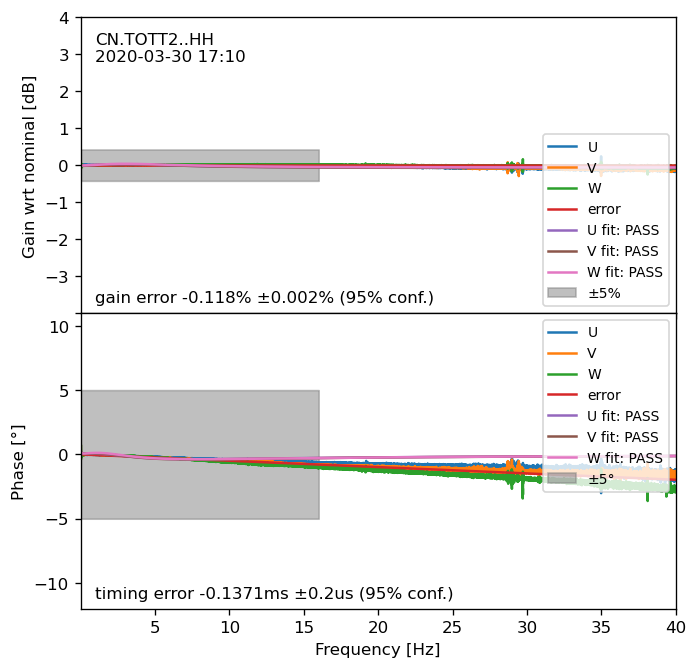
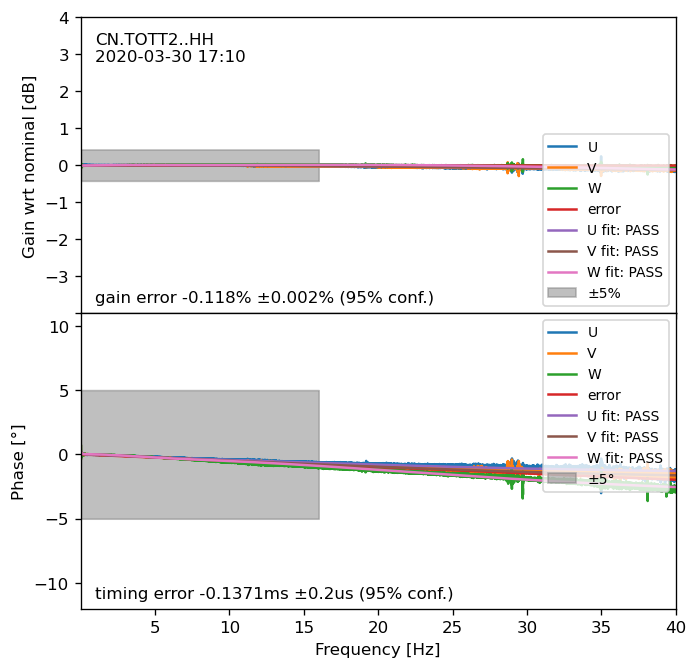
Changed --fit argument from bool to number of stages to fit. Added out-of-band argument. Log arguments used.

diff --git a/src/calan/calibration_analyzer.py b/src/calan/calibration_analyzer.py
@@ -64,7 +64,7 @@ from calan.core import (
     PACKAGE, VERSION, factor_names, subplots_squeeze,
     gain_db, phase_deg, unwrap_mid, recompute_normalization_factors,
     extract_decimation_coefficients, multi_decim,
-    lti_multiply, lti_divide, zpk_cascade, stage2zpk, units)
+    lti_multiply, lti_divide, zpk_cascade, units)
 from calan.utilities import (
     logspace, pretty_duration, round_sig, str_sig, MyArgumentParser, MyFormatter)
 from calan.stft import Stft, len_fft_welch, num_windows_welch
@@ -99,6 +99,8 @@ DEFAULT_PRE_TIME = 10
 DEFAULT_POST_TIME = 10
 DEFAULT_DELAY_START = 0
 DEFAULT_DISCARD = (0, 0)
+DEFAULT_FIT_STAGES = 0
+DEFAULT_OUT_OF_BAND_RANGE = (2, 5)
 
 # constants
 THIS_FILE_NAME = os.path.basename(__file__)
@@ -186,7 +188,7 @@ def _argparser() -> MyArgumentParser:
         help='glob pattern matching calibration output files, '
         'in any format readable by obspy.read()')
     parser.add_argument(
-        '-n', '--num-windows', default=DEFAULT_NUM_WINDOWS, type=int,
+        '--num-windows', default=DEFAULT_NUM_WINDOWS, type=int,
         help="number of windows to used for Welch's method")
     parser.add_argument(
         '--len-fft', default=None, type=int,
@@ -230,8 +232,13 @@ def _argparser() -> MyArgumentParser:
         '--ims-instrument-type', default='',
         help='if provided, write IMS2.0 CALIBRATE_RESULT message with this type')
     parser.add_argument(
-        '--fit', action='store_true',
-        help='fit transfer function poles and zeros')
+        '--fit', type=int, metavar=('N'), default=DEFAULT_FIT_STAGES,
+        help='fit the first N stages of the sensor response poles and zeros')
+    parser.add_argument(
+        '--out-of-band', nargs=2, type=float, metavar=('FACTOR_1', 'FACTOR_2'),
+        default=DEFAULT_OUT_OF_BAND_RANGE,
+        help='fix poles and zeroes more than this factor beyond available '
+        'frequency range')
     parser.add_argument(
         '-p', '--plot', default='none', choices=get_args(PlotChoices),
         help='generate basic (start & end check, transfer function and '
@@ -310,7 +317,8 @@ def calibration_analyzer(
     test_limits: Tuple[float, float] = (MAX_AMPLITUDE_PERCENT, MAX_PHASE_DEGREES),
     orientation_map: Tuple[str, str] = DEFAULT_ORIENTATION_MAP,
     plot: str = '',
-    fit: bool = False,
+    fit: int = DEFAULT_FIT_STAGES,
+    out_of_band: Tuple[float, float] = DEFAULT_OUT_OF_BAND_RANGE,
     dpi: float = DEFAULT_DPI,
 ) -> str:
     """Do arbitrary-signal calibration analysis."""
@@ -349,7 +357,7 @@ def calibration_analyzer(
         analyzer.load_calibration_signal(calibration_signal_file)
         analyzer.load_calibration_response(calibration_response_file)
         analyzer.check_stream(discard_s=discard_s)
-        analyzer.setup_nominal_responses()
+        analyzer.setup_nominal_responses(n=min(fit, 1))
         analyzer.map_orientations(orientation_map)
 
         plot_level = PLOT_LEVEL[plot]
@@ -360,7 +368,7 @@ def calibration_analyzer(
         analyzer.compute(num_windows=num_windows, len_fft=len_fft or None,
                          window=window)
         if fit:
-            analyzer.fit()
+            analyzer.fit(out_of_band=out_of_band)
         analyzer.test(test_band_hz=test_band_hz,
                       max_amplitude_percent=test_limits[0],
                       max_phase_degrees=test_limits[1])
@@ -935,20 +943,20 @@ class CalibrationAnalyzer():
         self.info.calibration_response_file = response_file
         self.logger.debug(str(self.get_stream('input')[0].stats.response))
 
-    def setup_nominal_responses(self: CalibrationAnalyzer) -> None:
+    def setup_nominal_responses(self: CalibrationAnalyzer, n: int = 1) -> None:
         """
         Set up nominal sensor, cal & system (linear time-invariant) responses.
 
-        system = calibration [m/s^2/V] * sensor [V/(m/s^n)] * integrator(2 - n)
+        system = calibration [m/s^2/V] * sensor [V/(m/s^k)] * integrator(2 - k)
 
         Note
-          1. The 'sensor' is the first stage in the 'output' response.
+          1. The 'sensor' is the n first stages in the 'output' response.
           2. The 'cal' response is recorded in the station metadata as the
             conversion from ground motion to voltage, so to convert voltage to
             ground motion it is inverted.
         """
         sensor_stages = self.split_stages(self.get_stream('output')[0])[0]
-        self.lti.sensor = stage2zpk(sensor_stages[0])
+        self.lti.sensor = zpk_cascade(sensor_stages[0:n])
         self.logger.debug('Sensor: %s', str(self.lti.sensor))
 
         cal_stages = self.split_stages(self.get_stream('input')[0])[0]
@@ -968,7 +976,7 @@ class CalibrationAnalyzer():
                 f'from {cal_units} to {sensor_units} not supported.')
 
         self.lti.cal = lti_divide(
-            lti_multiply(integrator, zpk_cascade(sensor_stages[1:])),
+            lti_multiply(integrator, zpk_cascade(sensor_stages[n:])),
             zpk_cascade(cal_stages))
         self.logger.debug('Cal: %s', self.lti.cal)
 
@@ -984,38 +992,18 @@ class CalibrationAnalyzer():
 
     def tf_nominal(
         self: CalibrationAnalyzer,
-        model: str,
+        model: Literal['sensor', 'cal', 'system'],
         f: Optional[ArrayLike] = None,
     ) -> np.ndarray:
         """
         Return nominal transfer function evaluated at frequencies.
-
-        Arguments:
-        - `model`: typically 'sensor', 'cal' or 'system'
-        - `f`: frequencies in Hz, defaults to those of self.stft
-
-        Returns:
-        - `tf`: nominal transfer function at given frequencies.
         """
-        if model not in vars(self.lti):
-            raise ValueError(
-                f"Model '{model}' not among supported: "
-                ', '.join(vars(self.lti)))
         if f is None:
             f = self.stft.f
         else:
             f = np.array(f)
 
-        omegas = 2*np.pi*f
-        tf_sensor = self.lti.sensor.freqresp(omegas)[1]
-        tf_cal = self.lti.cal.freqresp(omegas)[1]
-
-        if model == 'cal':
-            return tf_cal
-        elif model == 'sensor':
-            return tf_sensor
-        else:
-            return tf_sensor*tf_cal
+        return getattr(self.lti, model).freqresp(2*np.pi*f)[1]
 
     def voltage(
         self: CalibrationAnalyzer,
@@ -1147,23 +1135,23 @@ class CalibrationAnalyzer():
 
         if self.lti.fits:
             poles = pd.concat(
-                [feature_stats(lti_divide(fit, self.lti.cal).poles, 'pole')
-                    for fit in self.lti.fits] +
+                [feature_stats(lti_divide(lti_fit, self.lti.cal).poles, 'pole')
+                    for lti_fit in self.lti.fits] +
                 [feature_stats(self.lti.sensor.poles, 'pole')]
             ).applymap(lambda x: round_sig(x, 6))
             poles.index = info.index
 
             zeros = pd.concat(
-                [feature_stats(lti_divide(fit, self.lti.cal).zeros, 'zero')
-                    for fit in self.lti.fits] +
+                [feature_stats(lti_divide(lti_fit, self.lti.cal).zeros, 'zero')
+                    for lti_fit in self.lti.fits] +
                 [feature_stats(self.lti.sensor.zeros, 'zero')]
             ).applymap(lambda x: round_sig(x, 6))
             zeros.index = info.index
 
             sensitivity = pd.DataFrame(
                 np.vstack(
-                    [self.sensitivity(lti_divide(fit, self.lti.cal))
-                     for fit in self.lti.fits] +
+                    [self.sensitivity(lti_divide(lti_fit, self.lti.cal))
+                     for lti_fit in self.lti.fits] +
                     [self.sensitivity(self.lti.sensor)]),
                 columns=pd.MultiIndex.from_tuples([
                     ('f_norm', 'hz'),
@@ -1205,7 +1193,8 @@ class CalibrationAnalyzer():
     def tf_fits(self: CalibrationAnalyzer) -> np.ndarray:
         """Compute fitted transfer functions at measured frequencies."""
         return np.array([
-            fit.freqresp(2*np.pi*self.stft.f)[1] for fit in self.lti.fits])
+            lti_fit.freqresp(2*np.pi*self.stft.f)[1]
+            for lti_fit in self.lti.fits])
 
     def test(
         self: CalibrationAnalyzer,
@@ -1397,7 +1386,10 @@ class CalibrationAnalyzer():
 
         return signal
 
-    def fit(self: CalibrationAnalyzer) -> None:
+    def fit(
+        self: CalibrationAnalyzer,
+        out_of_band: Tuple[float, float] = DEFAULT_OUT_OF_BAND_RANGE,
+    ) -> None:
         """Least-squares estimation of poles and zeros."""
         f = self.stft.f
         if len(f) < 1:
@@ -1414,7 +1406,8 @@ class CalibrationAnalyzer():
         sensor_units = units(sensor_stages)['forward']
 
         zpk_fixed = zpk_out_of_band(self.lti.system, self.stft.f,
-                                    norm_freq_hz=f_norm)
+                                    norm_freq_hz=f_norm,
+                                    factor_lims=out_of_band)
         self.logger.debug(zpk_fixed)
 
         zpk_unfixed = lti_divide(zpk_nom, zpk_fixed)
@@ -1947,6 +1940,8 @@ def main(argv=None) -> int:
     if os.path.isfile(LOG_FILE_NAME):
         os.remove(LOG_FILE_NAME)
     logging.config.dictConfig(LOG_SETTINGS)
+    logger = logging.getLogger(__name__)
+    logger.info('Arguments: %s', ' '.join(argv[1:]))
 
     config = vars(args).copy()
     result = calibration_analyzer(**config)

diff --git a/src/calan/core.py b/src/calan/core.py
@@ -37,7 +37,7 @@ from calan import chis_archive
 ROOT = os.path.dirname(os.path.abspath(os.path.dirname(__file__)))
 DATA_PATH = os.path.join(os.path.abspath(os.path.dirname(__file__)), 'data')
 PACKAGE = os.path.basename(os.path.dirname(__file__))
-VERSION = '1.2.3'
+VERSION = '1.2.4'
 
 CHIS_FDSN_SERVERS = (
     'http://fdsn.seismo.nrcan.gc.ca',  # production, SeisComP3
